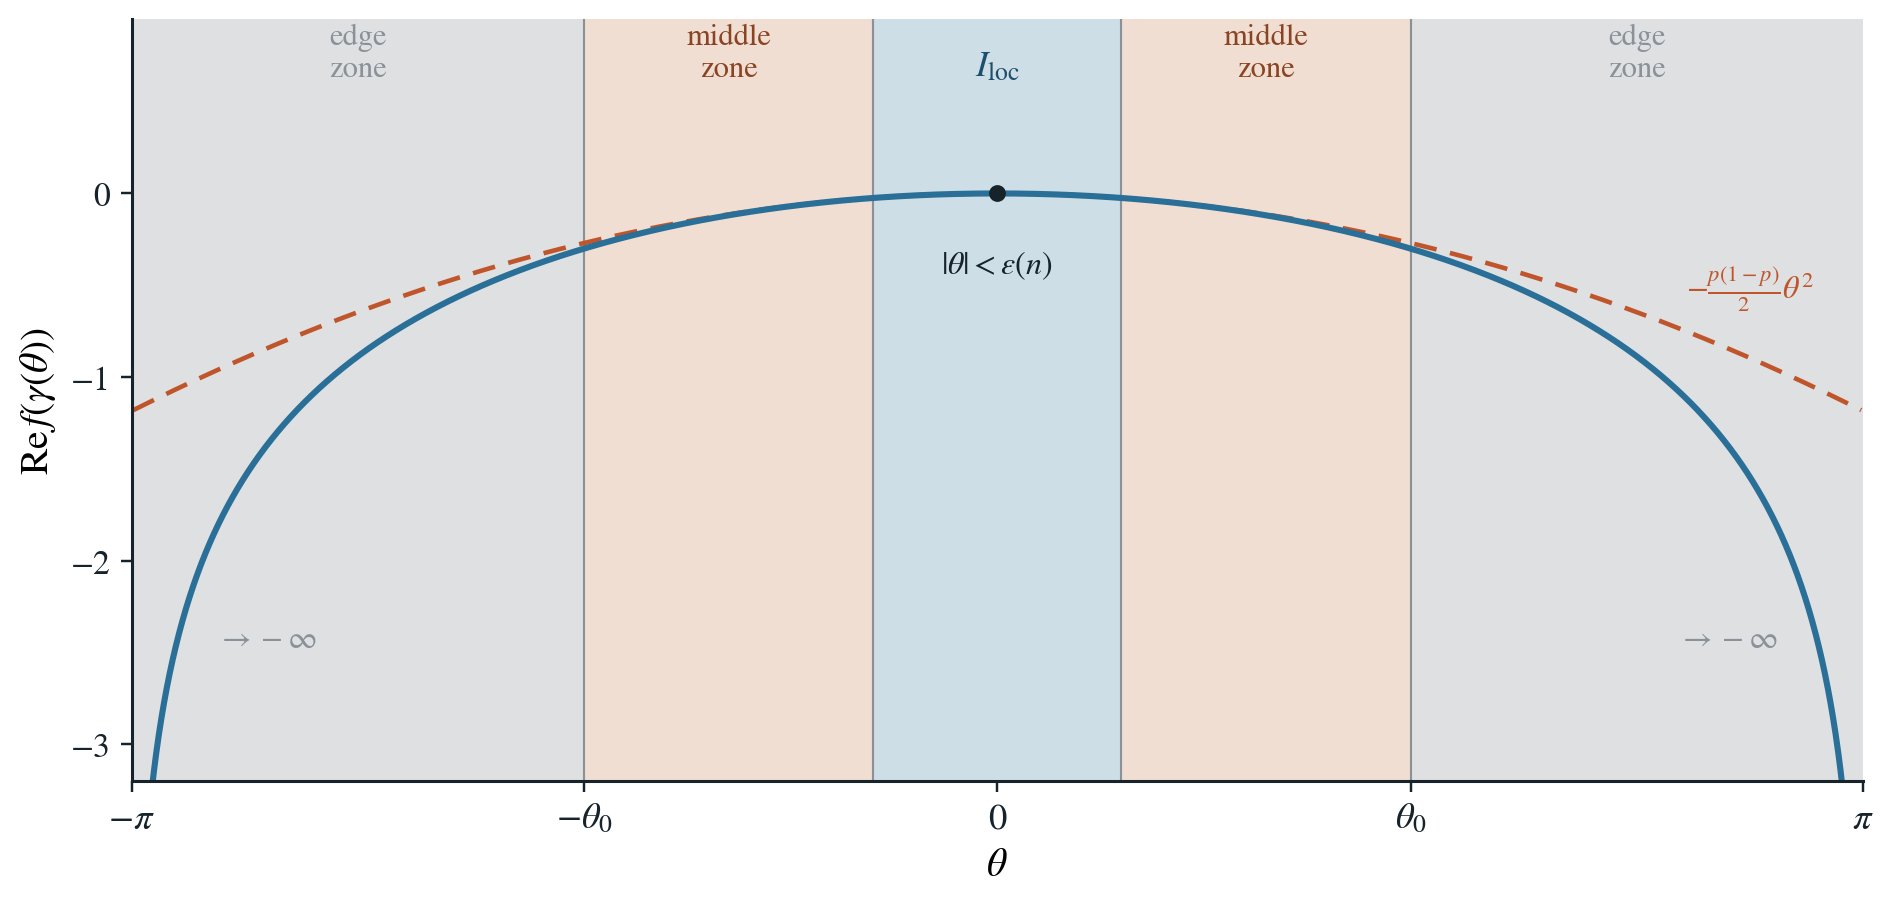
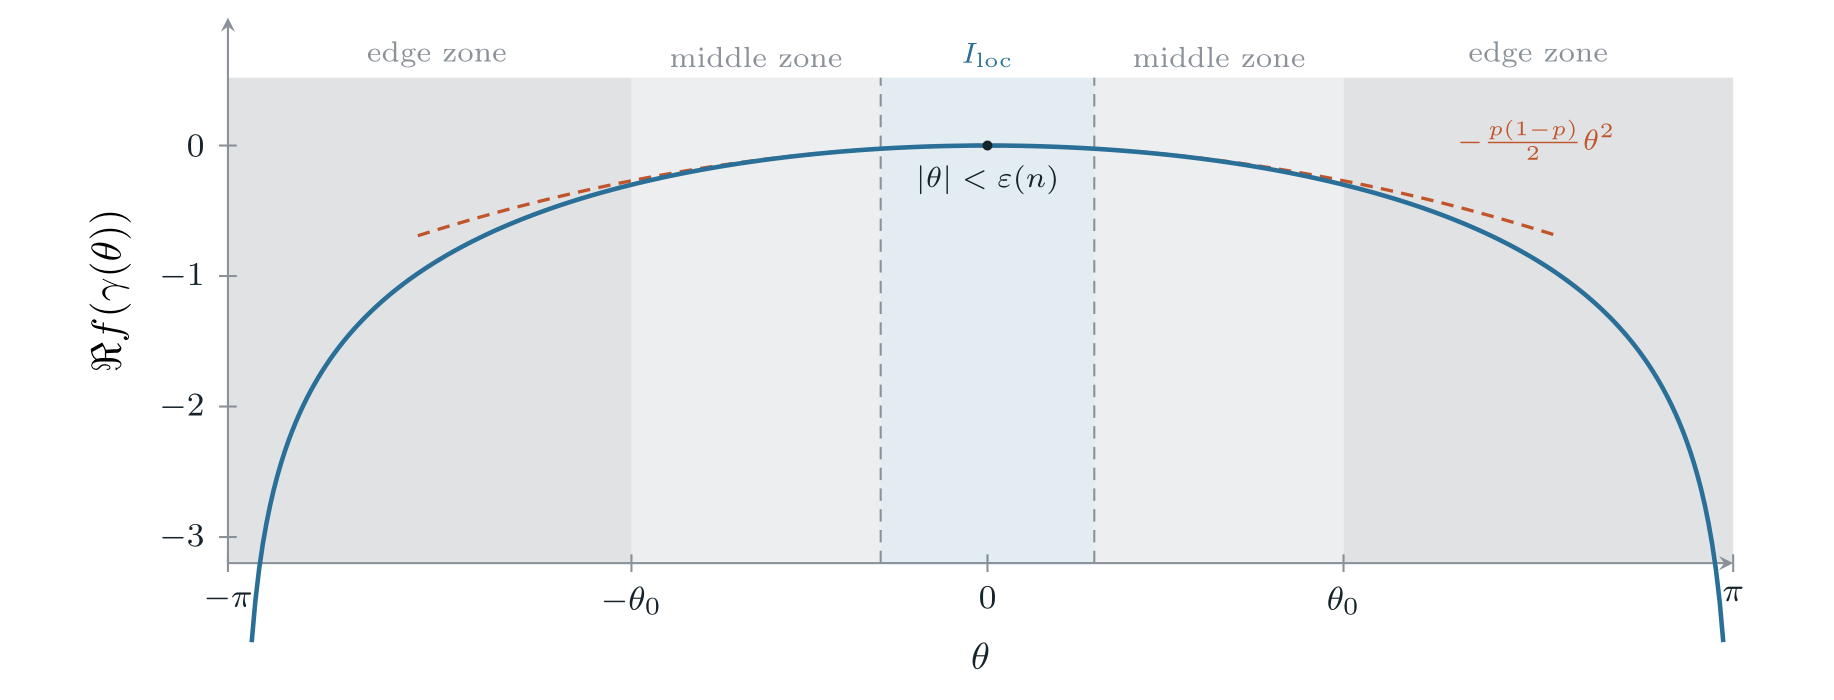
editing figures for steepest descent posts

diff --git a/research.md b/research.md
@@ -37,11 +37,7 @@ Format for a real entry:
 - **Infinite Iterated Function Systems:** Limit sets and attractors of IIFS. Work done under Ariel Rapaport. [[pdf]]({{ '/assets/files/IIFS.pdf' | relative_url }})
 
 ## Projects
-A variety of projects in machine learning and computational biology.
-
-<!--
-- **Hessian spectra and posterior collapse in deep VAEs** — A negative result in two-regimes that a bulk + outlier in the loss Hessian could predict posterior collapse. Blog post to be written.
--->
+A variety of projects in machine learning and computational biology.Devised and ran a novel experiment chaining explainer models to explain each other, demonstrating that "explaining ability" converges to a stable fixed point after a few iterations — an original extension beyond the source paper
 
 - **[Model Introspection](https://github.com/oakleafwarrior/introspection_replication)** I replicated results from this [paper](https://arxiv.org/pdf/2511.08579). I LoRA poost trained Qwen3 family of models to explain their responses on input ablation and activation patching experiments. High-order explainer models (those trained to explain previous explainer models), stabilize on evaluation metrics, but are worse at explaining the original model. Explainer models trained from smaller/quantized base models perform worse than those postrained from the target model on input ablation explanations, and perform similarly well on activation patching explanations in a small training run regime. Experiment yourself on the notebooks: [![Small Explainer Replication](https://colab.research.google.com/assets/colab-badge.svg)](https://colab.research.google.com/github/oakleafwarrior/introspection_replication/blob/main/replication.ipynb), [![Iteration Experiment](https://colab.research.google.com/assets/colab-badge.svg)](https://colab.research.google.com/github/oakleafwarrior/introspection_replication/blob/main/iteration.ipynb).
 

diff --git a/_posts/2026-08-04-steepest-descent-i-laplace-stirling.md b/_posts/2026-08-04-steepest-descent-i-laplace-stirling.md
@@ -114,13 +114,13 @@ $$
 \end{align}
 $$
 
-The figure below shows this split and the two scales that make it work.
+<!-- The figure below shows this split and the two scales that make it work.
 
 {% include figure.html
    src="/assets/img/posts/steepest-descent/fig02-laplace-split.png"
    caption="The decomposition of the integral. The left shows each window. $I_1$ in $[1-\vep,1+\vep]$ and carrying the mass is shaded while the tails $I_2,I_3$ are in grey. The exponent $\vep=n^{-2/5}$ is chosen to sit between the two scales. The cubic error $nO(\vep^3)=O(n^{-1/5})$ decays, but $\vep$ outpaces the Gaussian width of $n^{-1/2}$. On the right, after the substitution $y=1+z\sqrt{n}$, the window becomes $\vert z \vert<n^{1/10}$, which has growth just fast enough to make the tail negligble. Claude generated picture."
    alt="Two panels: the split of the Laplace integral into center and tail regions at n=40, and the same window rescaled to show the Gaussian profile."
-   width="95%" %}
+   width="95%" %} -->
 
 The first term, under the substitution  $y = 1 + \frac{z}{\sqrt{n}}$ is
 
